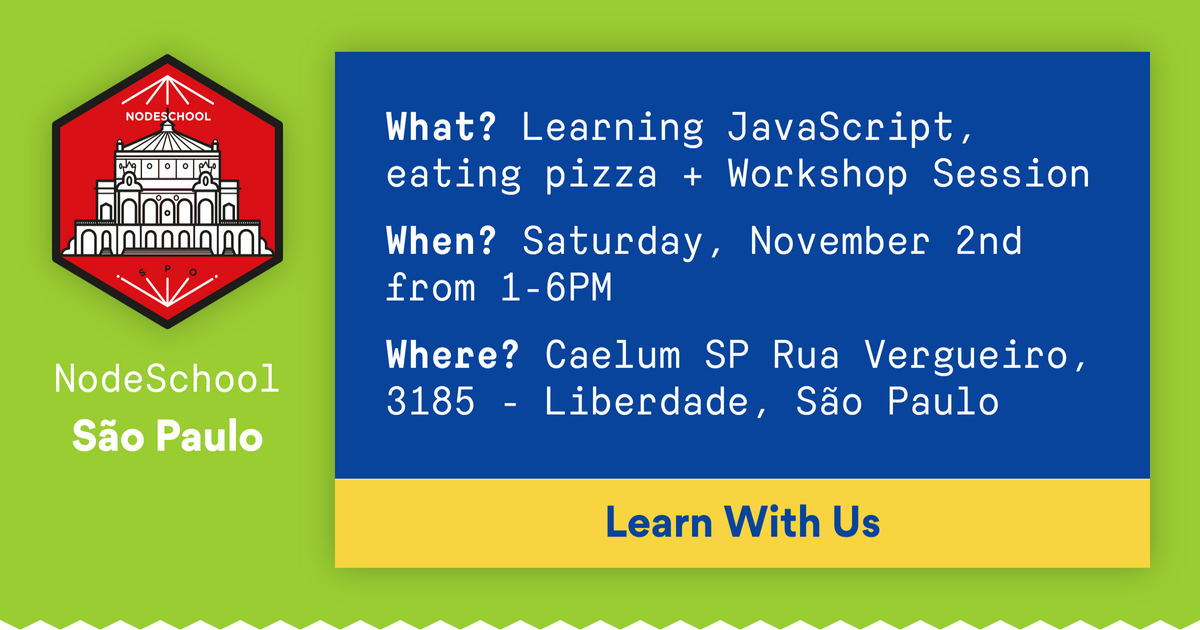
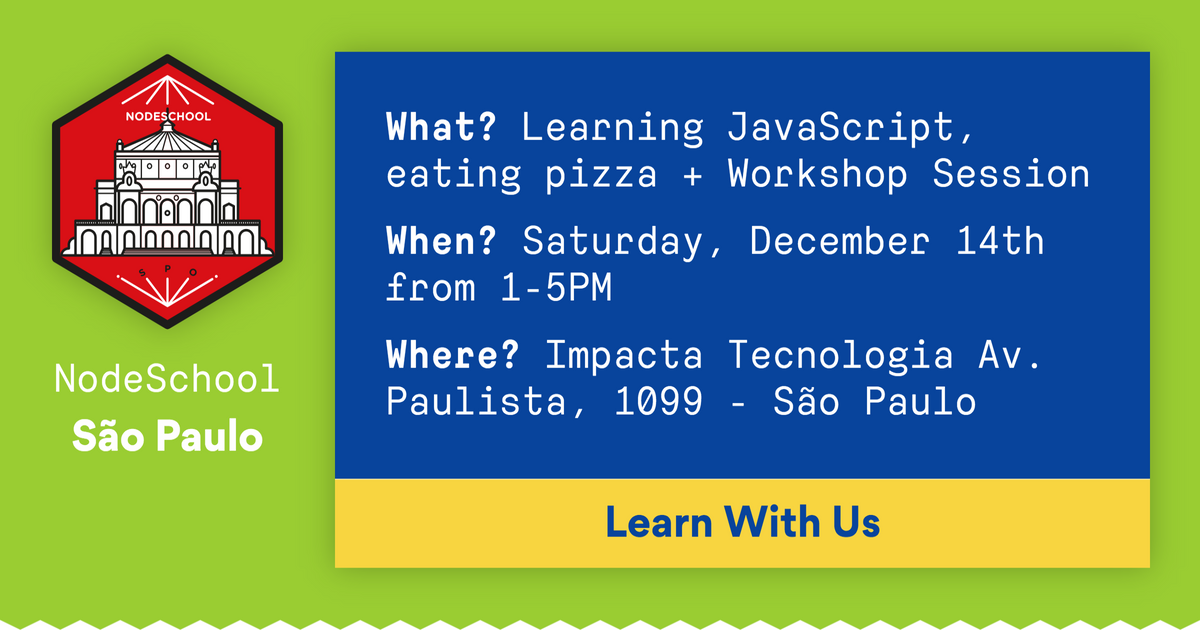
AUTOMATIC site update

Changed region(s): [[0.3083, 0.5429, 0.8942, 0.6635], [0.8017, 0.3619, 0.8633, 0.4222], [0.6167, 0.3619, 0.6783, 0.4222]]

diff --git a/docs/index.html b/docs/index.html
@@ -9,7 +9,7 @@
   <meta property="og:description"
     content="NodeSchool São Paulo is a monthly meetup dedicated to helping people learn JavaScript." />
   <meta property="og:url" content="https://nodeschool.io/saopaulo/" />
-  <meta property="og:image" content="https://nodeschool.io/saopaulo/images/social.png?t=1572718847714" />
+  <meta property="og:image" content="https://nodeschool.io/saopaulo/images/social.png?t=1572719049115" />
   <!--Twitter-->
   <meta name="twitter:card" content="summary_large_image">
   <meta name="twitter:site" content="@nodeschoolsp">
@@ -17,7 +17,7 @@
   <meta name="twitter:title" content="NodeSchool São Paulo">
   <meta name="twitter:description"
     content="NodeSchool São Paulo is a monthly meetup dedicated to helping people learn JavaScript.">
-  <meta name="twitter:image" content="https://nodeschool.io/saopaulo/images/social.png?t=1572718847714">
+  <meta name="twitter:image" content="https://nodeschool.io/saopaulo/images/social.png?t=1572719049115">
 
   <title>NodeSchool São Paulo</title>
   <link rel="stylesheet" href="./styles/index.css" />
@@ -75,8 +75,8 @@
                 <strong class="strong--alt">When?</strong> Saturday, December 14th from 1-5PM
               </li>
               <li class="next-event__info__item">
-                <strong class="strong--alt">Where?</strong> Impacta Tecnologia Av. Paulista, 1009 - São Paulo [<a
-                  href="http://maps.google.com/?q=Av.%20Paulista%2C%201009%20-%20S%C3%A3o%20Paulo">map</a>]
+                <strong class="strong--alt">Where?</strong> Impacta Tecnologia Av. Paulista, 1099 - São Paulo [<a
+                  href="http://maps.google.com/?q=Av.%20Paulista%2C%201099%20-%20S%C3%A3o%20Paulo">map</a>]
               </li>
               <li class="next-event__info__item">
                 <strong class="strong--alt">What?</strong> Learning, mentoring, javascript bffs, and pizza 🍕
@@ -86,7 +86,7 @@
           <nav class="next-event__actions">
             <a class="next-event__action__learner next-event__action button" href="https:&#x2F;&#x2F;www.meetup.com&#x2F;nodeschoolsp&#x2F;events&#x2F;266164611">
               Sign up as a Learner
-            </a><a class="next-event__action__mentor next-event__action button" href="https:&#x2F;&#x2F;github.com&#x2F;nodeschool&#x2F;saopaulo&#x2F;issues&#x2F;29">
+            </a><a class="next-event__action__mentor next-event__action button" href="https:&#x2F;&#x2F;github.com&#x2F;nodeschool&#x2F;saopaulo&#x2F;issues&#x2F;31">
               Sign up as a Mentor
             </a>
           </nav>

diff --git a/docs/social.html b/docs/social.html
@@ -23,7 +23,7 @@
         <div class="next-event__description">
           <p><strong>What?</strong> Learning JavaScript, eating pizza + Workshop Session</p>
           <p><strong>When?</strong> Saturday, December 14th from 1-5PM</p>
-          <p><strong>Where?</strong> Impacta Tecnologia Av. Paulista, 1009 - São Paulo</p>
+          <p><strong>Where?</strong> Impacta Tecnologia Av. Paulista, 1099 - São Paulo</p>
         </div>
         <div class="next-event__actions">
           <button class="next-event__action__learn next-event__action social__button button">Learn With Us</button>
